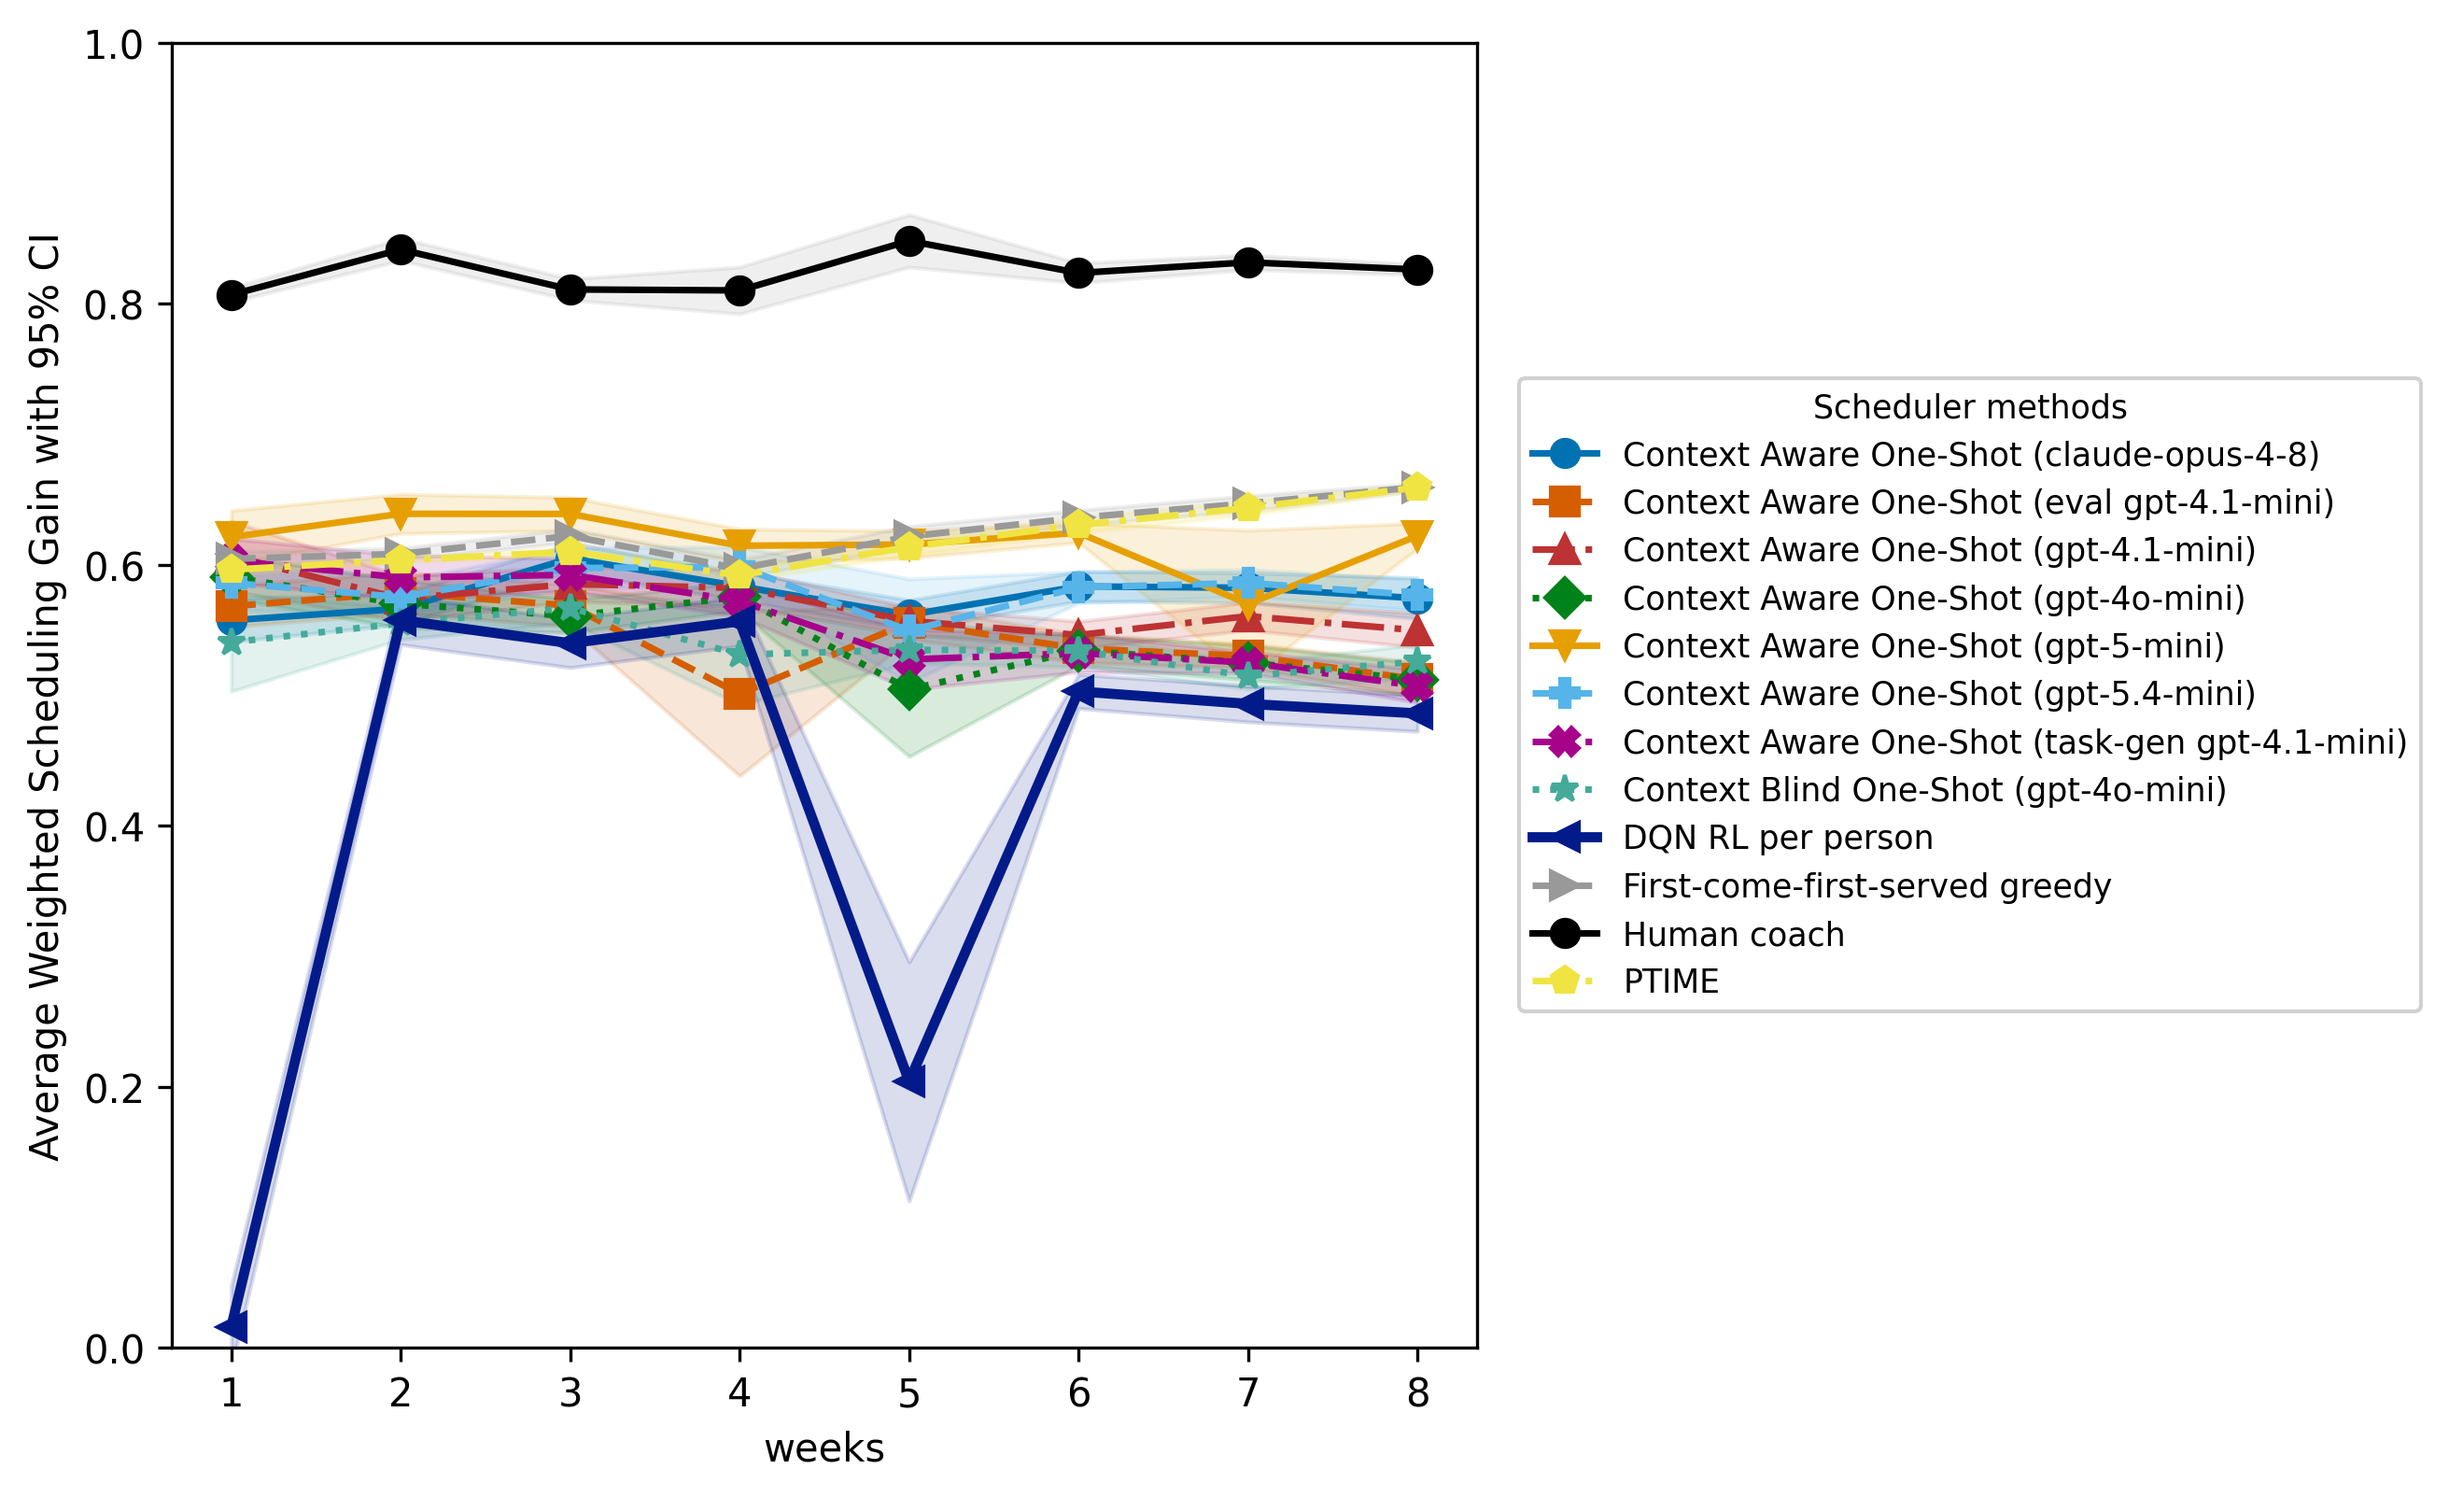
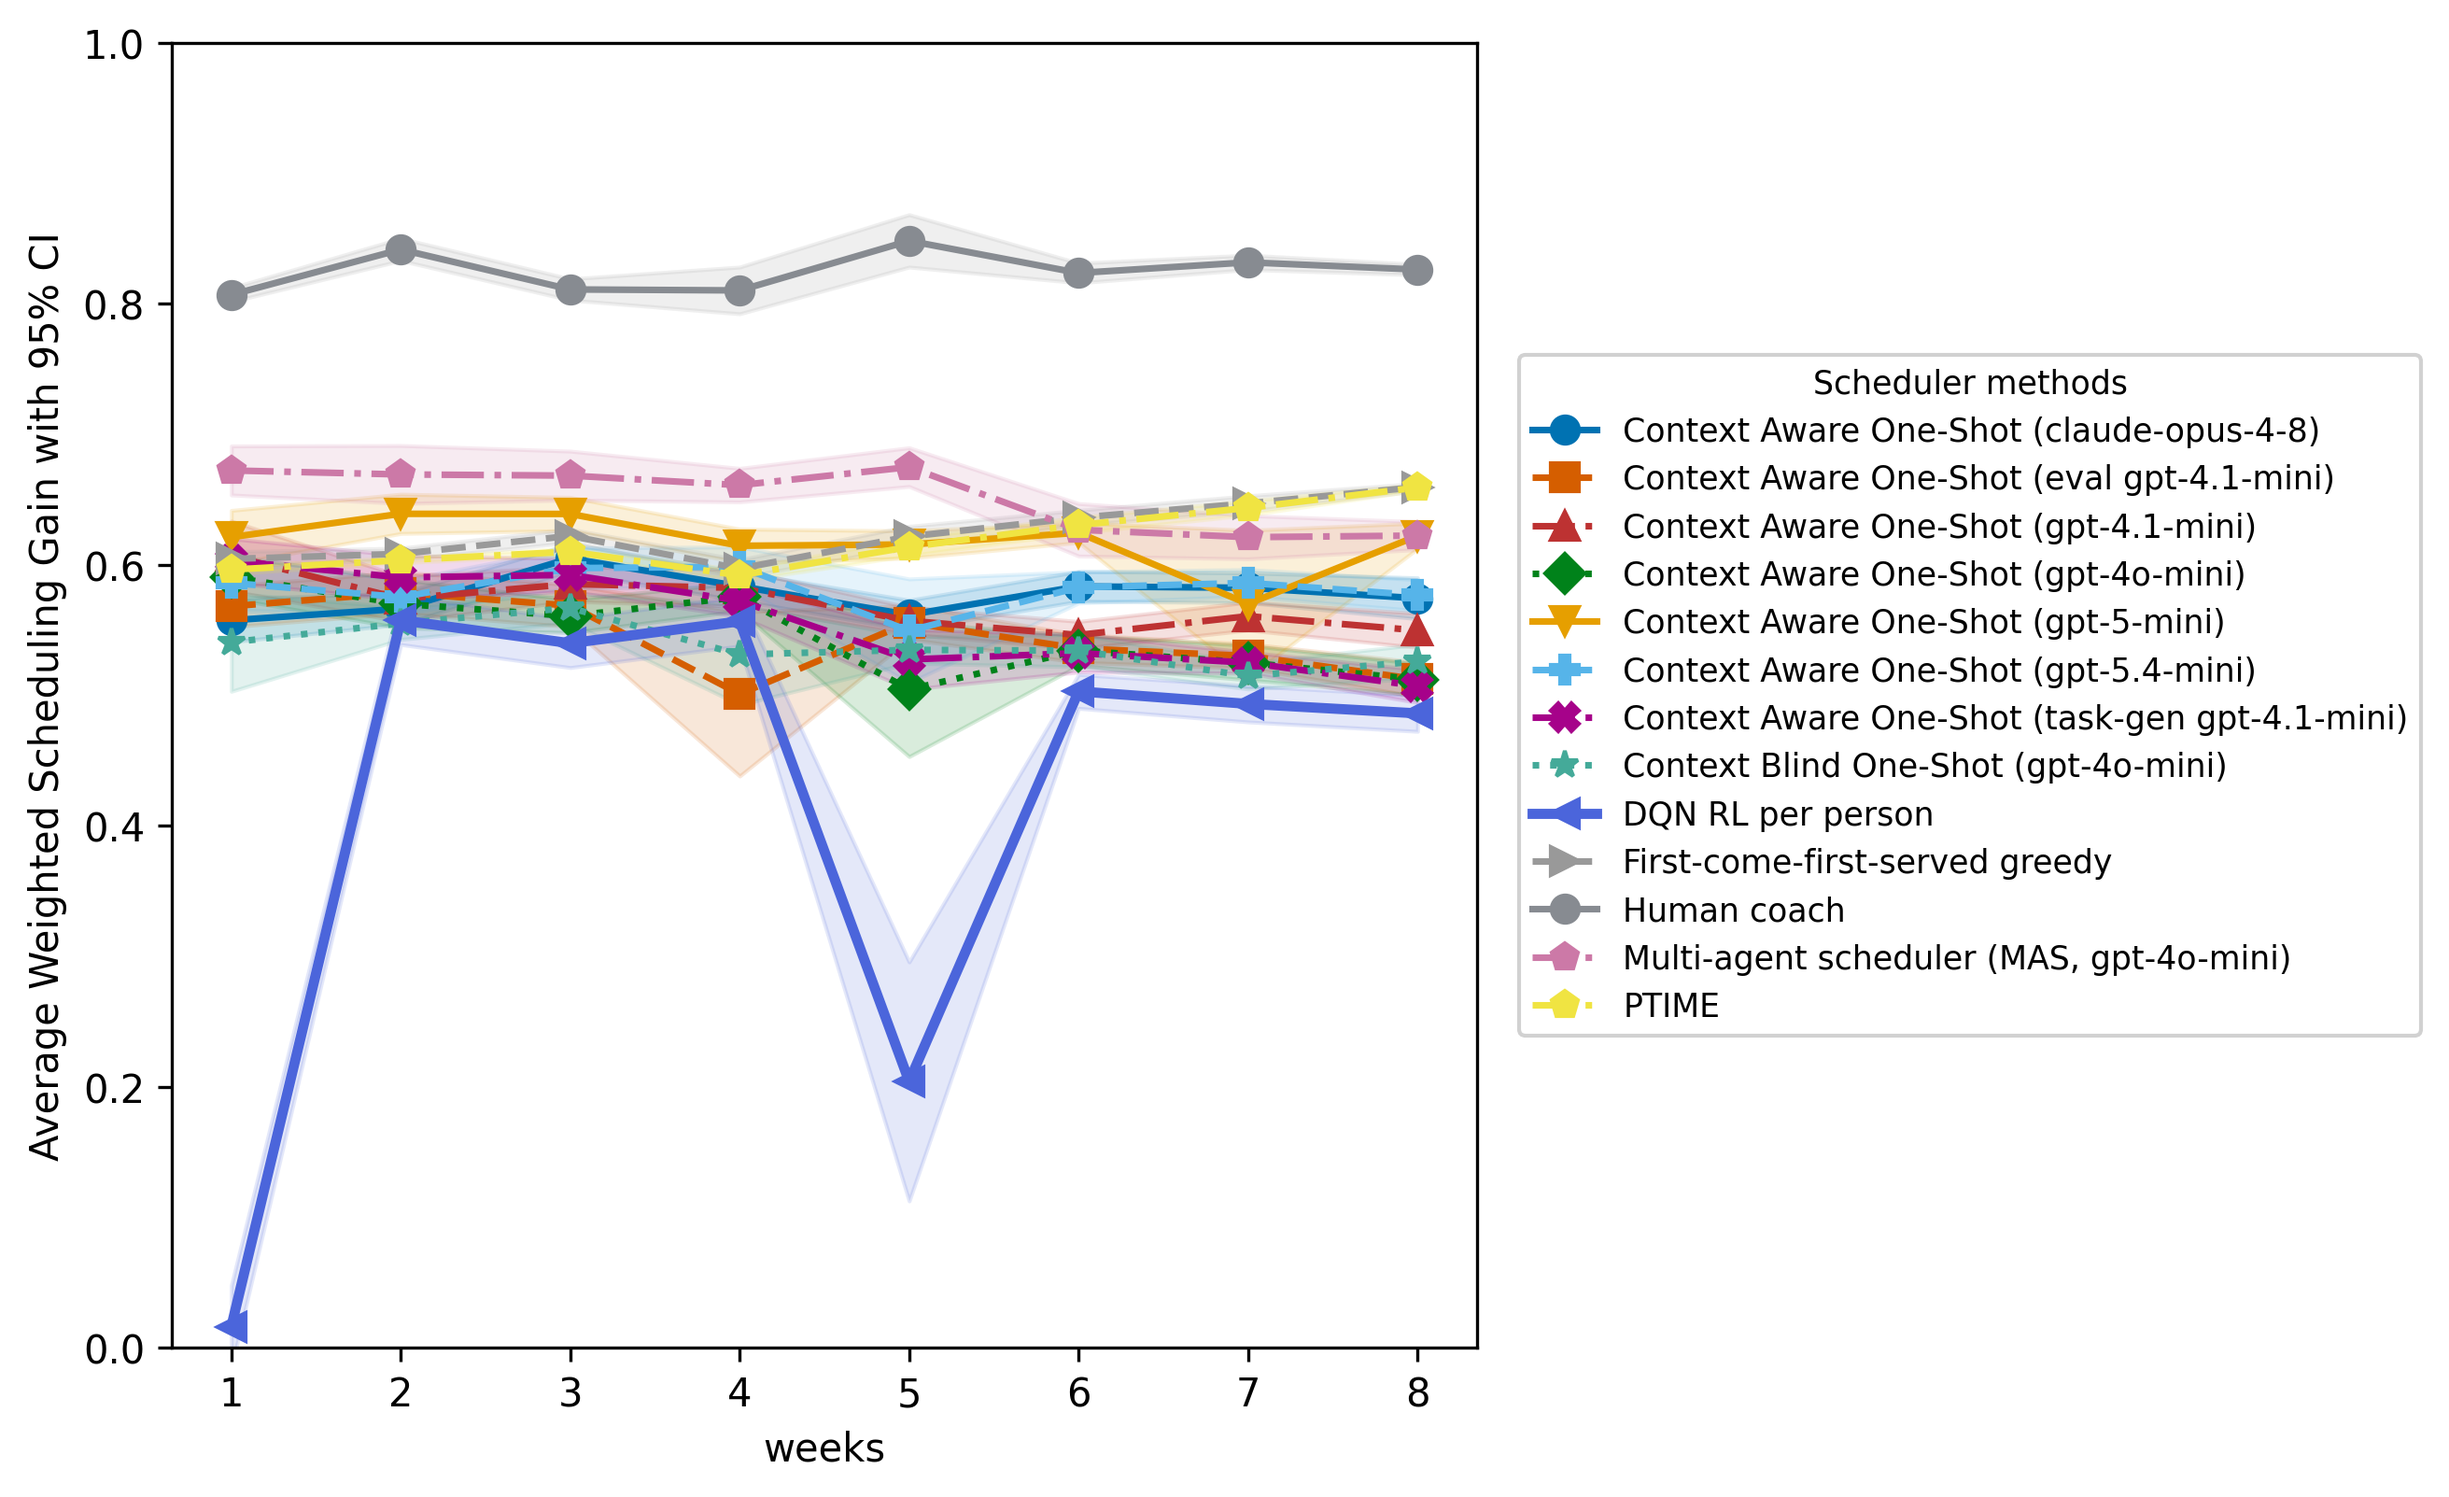
:test_tube: updates experiment reports

diff --git a/docs/benchmark_report.md b/docs/benchmark_report.md
@@ -1,8 +1,8 @@
-# Benchmark report: 8-week example experiment with online DQN augmenter; 5 survey-collectable context categories observed by every method
+# Benchmark report: 8-week cohort with online DQN augmenter; 5 survey-collectable context categories observed by every method
 
 _Experiment id: `example_experiment`_
 
-_Generated 2026-06-13T18:29:34+00:00_
+_Generated 2026-07-20T22:22:34+00:00_
 
 _11 `(scenario_id, method)` run(s) aggregated._
 
@@ -10,7 +10,7 @@ _11 `(scenario_id, method)` run(s) aggregated._
 
 Compact label conventions used in the tables below:
 
-* **M**: augmenter method. `SAP` = Single-Agent Prompt (one-shot `llm_agent` + `augment_oneshot`); `ITA` = Iterative-Turn Agent (`llm_agent` + `augment_agent`); `GRD` = greedy; `RL` = RL.
+* **M**: augmenter method. `SAP` = Single-Agent Prompt (one-shot `llm_agent` + `augment_oneshot`); `GRD` = greedy; `PTIME` = PTIME; `RL` = RL.
 * **T**, **A**, **E**: Task generator, Augmenter, Evaluator stage models, in pipeline order.
 * Stages sharing the same model are grouped: `TAE: gpt-4o-mini` means all three stages use that model; `TE: gpt-4o-mini + A: gpt-4.1-mini` means only the augmenter differs. `env-default` means the stage inherits its model from `.env`.
 
@@ -84,7 +84,7 @@ _Per-week median weighted gain across persons, IQM at the final week, and the pe
 
 ## Cross-augmenter weekly trajectory
 
-_Mean weighted gain across persons per ISO week for every run, with the OLS `slope` over weeks. A positive slope is improvement over time; the RL run should trend up while the non-learning baselines stay near zero._
+_Cohort-mean weighted gain per ISO week for every run, with the OLS `slope` over weeks. A positive slope is improvement over time; the RL run should trend up while the non-learning baselines stay near zero._
 
 | Configuration | Wk1 | Wk2 | Wk3 | Wk4 | Wk5 | Wk6 | Wk7 | Wk8 | Δ (last - first) | slope |
 |---|---|---|---|---|---|---|---|---|---|---|
@@ -100,7 +100,7 @@ _Mean weighted gain across persons per ISO week for every run, with the OLS `slo
 | PTIME | 0.6088 | 0.5896 | 0.5901 | 0.5903 | 0.5917 | 0.5916 | 0.5898 | 0.6379 | +0.0291 | +0.0025 |
 | DQN RL per person | 0.1345 | 0.4135 | 0.5854 | 0.5850 | 0.5573 | 0.5101 | 0.5991 | 0.5810 | +0.4465 | +0.0452 |
 
-_The per-week figure is a mean across persons; the per-person distribution above is the unit-of-analysis view, so a flat mean alone does not prove that no individual learned._
+_The per-week figure is a cohort mean; the per-person distribution above is the unit-of-analysis view, so a flat mean alone does not prove that no individual learned._
 
 ## Stage cost & latency
 
